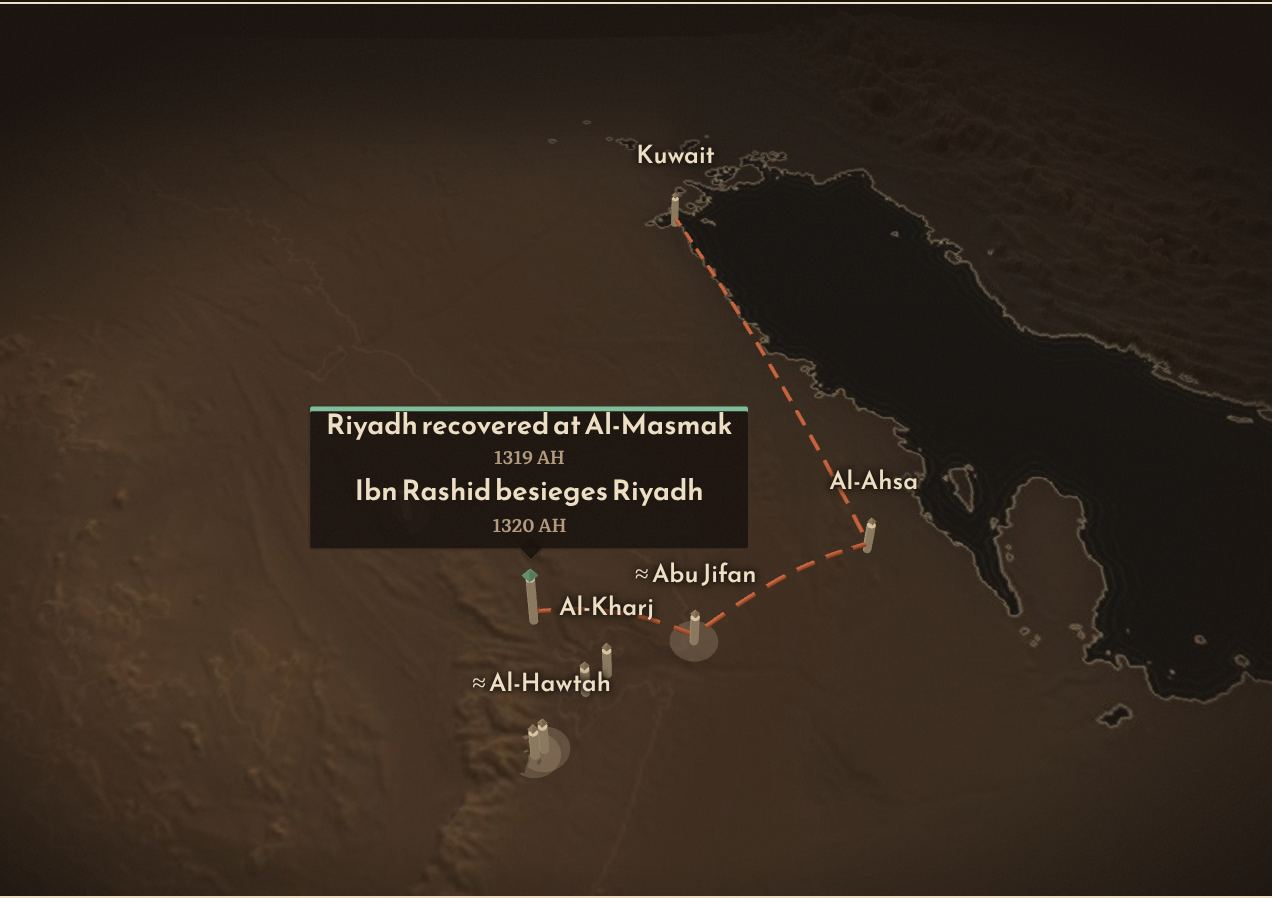
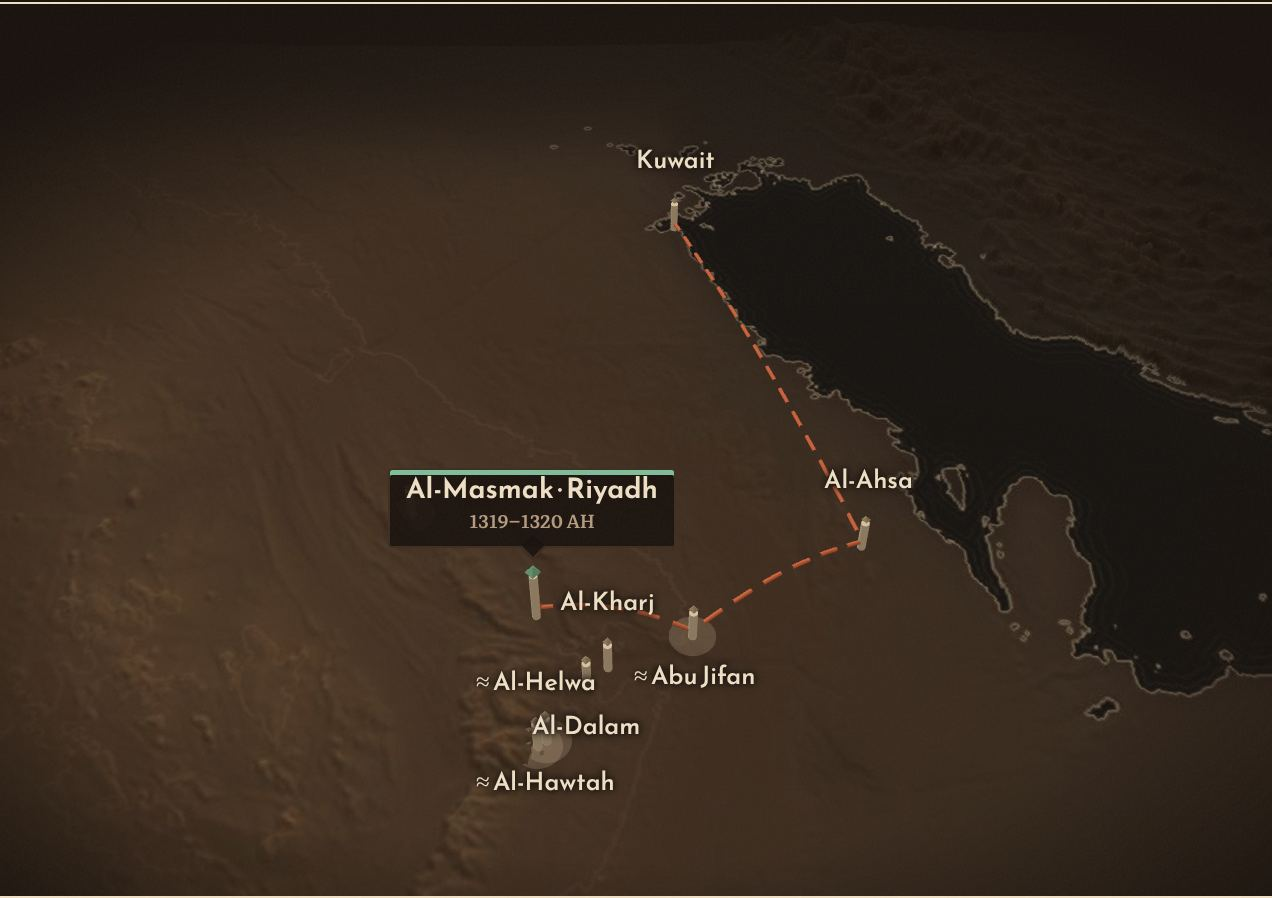
Add maps to every chapter and an overview map on the timeline
- Chapter maps for all 14 chapters, with a legend of events under each map
- Overview map with the six regions and a year slider (timeline page, last chapter)
- Smarter label placement, grouping of nearby events, auto-fit camera
- Map data in the page carries only what is drawn (no fact codes or notes)
- Still images for every map, light and dark, EN and AR
- check_chapters.py skips include lines; check_maps.py skips overview entries

Claude-Session: https://claude.ai/code/session_01T9hE6utXzHFuebtgZkjXcb

diff --git a/assets/map.js b/assets/map.js
@@ -77,6 +77,15 @@ async function build(fig) {
   const data = JSON.parse(fig.querySelector('.map-data').textContent);
   const lang = data.lang === 'ar' ? 'ar' : 'en';
   const T = TEXT[lang];
+  const places = data.places;
+  // marker size and relief height follow the size of the area the chapter covers:
+  // close views get flatter relief, so the coarse elevation data does not look spiky
+  const m = data.map || {};
+  const ids = [...(m.events || []).map(e => e.place), ...(m.places || []).map(q => q.id), ...(m.routes || []).flatMap(r => r.path)];
+  const ll = ids.map(id => places[id]).filter(Boolean);
+  const extent = ll.length ? Math.max(...ll.map(p => p.lat)) - Math.min(...ll.map(p => p.lat)) + Math.max(...ll.map(p => p.lon)) - Math.min(...ll.map(p => p.lon)) : 12;
+  const S = Math.min(3, Math.max(0.9, extent / 4));
+  const RELIEF = Math.min(1, Math.max(0.35, extent / 8));
   const stage = fig.querySelector('.map-stage');
   const THREE = await import(BASE + 'three/three.module.min.js');
   const { OrbitControls } = await import(BASE + 'three/OrbitControls.js');
@@ -106,7 +115,7 @@ async function build(fig) {
   geo.rotateX(-Math.PI / 2);
   geo.translate((x0 + x1) / 2, 0, (z0 + z1) / 2);
   const pos = geo.attributes.position;
-  for (let i = 0; i < pos.count; i++) pos.setY(i, field.at(i % field.w, Math.floor(i / field.w)));
+  for (let i = 0; i < pos.count; i++) pos.setY(i, field.at(i % field.w, Math.floor(i / field.w)) * RELIEF);
   geo.computeVertexNormals();
 
   const loader = new THREE.TextureLoader();
@@ -116,8 +125,7 @@ async function build(fig) {
   scene.add(new THREE.Mesh(geo, terrainMat));
 
   // ---------- markers ----------
-  const places = data.places;
-  const groundAt = (lat, lon) => Math.max(0, field.sample(lat, lon));
+  const groundAt = (lat, lon) => Math.max(0, field.sample(lat, lon) * RELIEF);
   const markers = [];   // { obj, top: Vector3, el, priority }
   const mats = [];      // [material, cssVar] so colours follow the theme
   const mat = v => { const m = new THREE.MeshStandardMaterial({ color: cssColour(v), roughness: .6 }); mats.push([m, v]); return m; };
@@ -126,11 +134,6 @@ async function build(fig) {
   const discGeo = new THREE.CircleGeometry(0.75, 40).rotateX(-Math.PI / 2);
 
   // marker size follows the size of the area the chapter covers
-  const m = data.map || {};
-  const ids = [...(m.events || []).map(e => e.place), ...(m.places || []).map(q => q.id), ...(m.routes || []).flatMap(r => r.path)];
-  const ll = ids.map(id => places[id]).filter(Boolean);
-  const extent = ll.length ? Math.max(...ll.map(p => p.lat)) - Math.min(...ll.map(p => p.lat)) + Math.max(...ll.map(p => p.lon)) - Math.min(...ll.map(p => p.lon)) : 1;
-  const S = Math.min(3, Math.max(0.7, extent / 4));
 
   function addMarker(p, opts) {
     const [x, z] = toXZ(p.lat, p.lon);
@@ -183,7 +186,9 @@ async function build(fig) {
   }
   for (const g of groups) {
     addMarker(g.p, { event: true, kind: g.events[0].kind, colour: KIND_COLOUR[g.events[0].kind] || '--ink',
-                     lines: g.events.map(e => ({ label: e[lang], year: e.year })) });
+                     // the pin shows the place and year; the full captions are in the legend under the map
+                     lines: [{ label: [...new Set(g.events.map(e => places[e.place][lang]))].join(' · '),
+                               year: [...new Set(g.events.map(e => e.year).filter(Boolean))].join('–') }] });
   }
   // a place a few km from an event marker (Al-Shuqaib, Al-Swaidi next to Al-Masmak) is left to the
   // caption below the map, so the pins don't pile up
@@ -238,19 +243,87 @@ async function build(fig) {
     routes.push({ pieces });
   }
 
+  // ---------- regions (overview maps): soft glows that light up year by year ----------
+  const regions = [];
+  let years = [], yearIdx = 0, userMoved = false;
+  if (m.overview && data.regions) {
+    const c = document.createElement('canvas');
+    c.width = c.height = 128;
+    const g2 = c.getContext('2d');
+    const grad = g2.createRadialGradient(64, 64, 0, 64, 64, 64);
+    grad.addColorStop(0, 'rgba(255,255,255,0.85)');
+    grad.addColorStop(0.55, 'rgba(255,255,255,0.45)');
+    grad.addColorStop(1, 'rgba(255,255,255,0)');
+    g2.fillStyle = grad;
+    g2.fillRect(0, 0, 128, 128);
+    const glow = new THREE.CanvasTexture(c);
+    for (const r of data.regions) {
+      const [x, z] = toXZ(r.centre[0], r.centre[1]);
+      const size = r.radius_km / 111 * K * 2;
+      const rm = new THREE.MeshBasicMaterial({ map: glow, color: cssColour('--adobe'), transparent: true, opacity: 0, depthTest: false, depthWrite: false });
+      mats.push([rm, '--adobe']);
+      const disc = new THREE.Mesh(new THREE.PlaneGeometry(size, size).rotateX(-Math.PI / 2), rm);
+      disc.position.set(x, 4, z);
+      disc.renderOrder = 2;
+      scene.add(disc);
+      const holder = new THREE.Group();
+      holder.position.set(x, 0, z);
+      const el = document.createElement('div');
+      el.className = 'map-label is-event kind-region';
+      const t = document.createElement('span'); t.className = 'ml-t'; t.textContent = r[lang];
+      const yr = document.createElement('span'); yr.className = 'ml-y'; yr.textContent = T.year(r.year);
+      el.append(t, yr);
+      overlay.appendChild(el);
+      const region = { rm, year: r.year, on: false };
+      regions.push(region);
+      markers.push({ obj: holder, top: new THREE.Vector3(x, groundAt(r.centre[0], r.centre[1]) + 2, z), el, priority: 3, born: 0, region });
+    }
+    years = [...new Set(data.regions.map(r => r.year))].sort();
+    yearIdx = reduceMotion ? years.length - 1 : 0;
+    const bar = document.createElement('div');
+    bar.className = 'map-years';
+    bar.innerHTML = '<input type="range" min="0" step="1"><output></output>';
+    const range = bar.querySelector('input'), out = bar.querySelector('output');
+    range.max = years.length - 1;
+    range.setAttribute('aria-label', lang === 'ar' ? 'السنة' : 'Year');
+    const show = () => { range.value = yearIdx; out.textContent = T.year(years[yearIdx]); for (const r of regions) r.on = r.year <= years[yearIdx]; };
+    range.addEventListener('input', () => { userMoved = true; yearIdx = +range.value; show(); });
+    fig.insertBefore(bar, fig.querySelector('figcaption'));
+    show();
+    regions.show = show;
+  }
+
   // ---------- camera: overview, then glide to the chapter ----------
   const focusPts = markers.map(k => k.obj.position);
   if (!focusPts.length) { const [rx, rz] = toXZ(24.7, 46.7); focusPts.push(new THREE.Vector3(rx, 0, rz)); }
   const box = new THREE.Box3().setFromPoints(focusPts);
   const centre = box.getCenter(new THREE.Vector3());
   const size = box.getSize(new THREE.Vector3());
-  const span = Math.max(size.x, size.z, 9);
+  const span = Math.max(size.x, size.z, 22);
   const dir = new THREE.Vector3(0, 1.15, 1).normalize();
   const endTarget = centre.clone();
-  const endPos = centre.clone().add(dir.clone().multiplyScalar(span * 2.1 + 8));
+  const endPos = centre.clone().add(dir.clone().multiplyScalar(span * (m.overview ? 2.5 : 1.0) + 4));
   const startTarget = new THREE.Vector3((x0 + x1) / 2, 0, (z0 + z1) / 2 + 10);
   const startPos = startTarget.clone().add(new THREE.Vector3(0, 1.6, 1).normalize().multiplyScalar(330));
 
+  // back the camera off until every pin (and room for its label above) fits in the frame
+  function fit() {
+    const pv = new THREE.Vector3();
+    for (let i = 0; i < 40; i++) {
+      camera.position.copy(endPos);
+      camera.lookAt(endTarget);
+      camera.updateMatrixWorld();
+      const inside = markers.every(k => {
+        pv.copy(k.top).project(camera);
+        return Math.abs(pv.x) < 0.8 && pv.y > -0.8 && pv.y < 0.6;
+      });
+      if (inside) return;
+      endPos.sub(endTarget).multiplyScalar(1.1).add(endTarget);
+    }
+  }
+  camera.aspect = stage.clientWidth / stage.clientHeight;
+  camera.updateProjectionMatrix();
+  fit();
   const dist = endPos.distanceTo(endTarget);
   scene.fog.near = dist * 1.1; scene.fog.far = dist * 3.2;
 
@@ -312,14 +385,24 @@ async function build(fig) {
       v.copy(k.top).project(camera);
       const x = (v.x + 1) / 2 * w, y = (1 - v.y) / 2 * h;
       const visible = v.z < 1 && x > -40 && x < w + 40 && y > 0 && y < h;
-      let ok = visible && reveal >= k.born;
+      let ok = visible && reveal >= k.born && (!k.region || k.region.on);
+      let pos = 'above', lx = x - (k.w || 0) / 2, ly = y - (k.h || 0);
       if (ok) {
-        const r = k.el.getBoundingClientRect();
-        const box = { l: x - r.width / 2, r: x + r.width / 2, t: y - r.height, b: y };
-        ok = !shown.some(s => box.l < s.r && box.r > s.l && box.t < s.b && box.b > s.t);
-        if (ok) shown.push(box);
+        // try above the pin, then below, right and left; hide the label only if all four collide
+        if (!k.w) { k.w = k.el.offsetWidth; k.h = k.el.offsetHeight; }
+        const { w: bw, h: bh } = k;
+        const tries = [['above', x - bw / 2, y - bh - 8], ['below', x - bw / 2, y + 30], ['right', x + 14, y - bh / 2 + 10], ['left', x - bw - 14, y - bh / 2 + 10]];
+        ok = false;
+        for (const [name, tx, ty] of tries) {
+          const box = { l: tx - 3, r: tx + bw + 3, t: ty - 3, b: ty + bh + 3 };
+          if (box.l < 0 || box.r > w || box.t < 0 || box.b > h) continue;
+          if (!shown.some(s => box.l < s.r && box.r > s.l && box.t < s.b && box.b > s.t)) {
+            shown.push(box); ok = true; pos = name; lx = tx; ly = ty; break;
+          }
+        }
       }
-      k.el.style.transform = `translate(${x}px, ${y}px) translate(-50%, -100%)`;
+      k.el.style.transform = `translate(${Math.round(lx)}px, ${Math.round(ly)}px)`;
+      k.el.dataset.pos = pos;
       k.el.classList.toggle('is-on', ok);
     }
   }
@@ -350,6 +433,11 @@ async function build(fig) {
       const p = Math.min(1, Math.max(0, (after - markers.length * 140 - i * 900) / 1400));
       for (const piece of r.pieces) piece.tube.visible = piece.at <= p;
     });
+    // overview: step through the years once after the glide, unless the visitor takes the slider
+    if (regions.length) {
+      if (!userMoved && intro.done && yearIdx < years.length - 1 && elapsed > intro.dur + 600 + yearIdx * 1100) { yearIdx++; regions.show(); }
+      for (const r of regions) r.rm.opacity += ((r.on ? 0.55 : 0) - r.rm.opacity) * 0.08;
+    }
     controls.update();
     renderer.render(scene, camera);
     placeLabels(reveal);

diff --git a/_includes/chapter-map.html b/_includes/chapter-map.html
@@ -15,12 +15,20 @@
     </picture>
   </div>
   <figcaption>
+    {%- if m.events %}
+    <ol class="map-legend">
+      {%- for e in m.events %}
+      <li class="kind-{{ e.kind }}">{% if e.year != "" %}<span class="lg-y">{{ e.year }}{% if lang == "ar" %}هـ{% else %} AH{% endif %}</span>{% endif %}<span class="lg-t">{{ e[lang] }}</span></li>
+      {%- endfor %}
+    </ol>
+    {%- endif %}
     <span class="map-note">{% if lang == "ar" %}الخطوط المتقطعة وعلامة ≈ تعني مسارًا أو موقعًا تقريبيًا.{% else %}Dashed lines and ≈ mark approximate routes and positions.{% endif %}</span>
     <span class="visually-hidden">{% if lang == "ar" %}على الخريطة: {% else %}On the map: {% endif %}
-      {%- for e in m.events %}{% assign p = site.data.places[e.place] %}{{ e[lang] }}{% if e.year != "" %} ({{ e.year }}{% if lang == "ar" %}هـ{% else %} AH{% endif %}){% endif %}{% if lang == "ar" %}، {% else %}; {% endif %}{% endfor %}
+      {%- if m.overview %}{% for r in site.data.regions %}{{ r[lang] }} ({{ r.year }}{% if lang == "ar" %}هـ{% else %} AH{% endif %}){% unless forloop.last %}{% if lang == "ar" %}، {% else %}; {% endif %}{% endunless %}{% endfor %}{% endif %}
       {%- for i in m.places %}{% assign p = site.data.places[i.id] %}{{ p[lang] }}{% unless forloop.last %}{% if lang == "ar" %}، {% else %}, {% endif %}{% endunless %}{% endfor %}.</span>
   </figcaption>
-  <script type="application/json" class="map-data">{"lang": {{ lang | jsonify }}, "map": {{ m | jsonify }}, "places": {{ site.data.places | jsonify }}}</script>
+  {%- comment -%} Only what the map draws: fact codes, sources and notes stay out of the page. {%- endcomment %}
+  <script type="application/json" class="map-data">{"lang": {{ lang | jsonify }}, "map": {"overview": {% if m.overview %}true{% else %}false{% endif %}, "places": [{% for i in m.places %}{"id": {{ i.id | jsonify }}}{% unless forloop.last %},{% endunless %}{% endfor %}], "events": [{% for e in m.events %}{"kind": {{ e.kind | jsonify }}, "place": {{ e.place | jsonify }}, "year": {{ e.year | jsonify }}, "en": {{ e.en | jsonify }}, "ar": {{ e.ar | jsonify }}}{% unless forloop.last %},{% endunless %}{% endfor %}], "routes": [{% for r in m.routes %}{"path": {{ r.path | jsonify }}, "approximate": {% if r.approximate %}true{% else %}false{% endif %}}{% unless forloop.last %},{% endunless %}{% endfor %}]}, "places": { {%- for kv in site.data.places %}{% assign p = kv[1] %}{{ kv[0] | jsonify }}: {"en": {{ p.en | jsonify }}, "ar": {{ p.ar | jsonify }}, "lat": {{ p.lat }}, "lon": {{ p.lon }}, "approximate": {% if p.approximate %}true{% else %}false{% endif %}}{% unless forloop.last %},{% endunless %}{% endfor -%} }{% if m.overview %}, "regions": [{% for r in site.data.regions %}{"id": {{ r.id | jsonify }}, "en": {{ r.en | jsonify }}, "ar": {{ r.ar | jsonify }}, "year": {{ r.year | jsonify }}, "centre": {{ r.centre | jsonify }}, "radius_km": {{ r.radius_km }}}{% unless forloop.last %},{% endunless %}{% endfor %}]{% endif %}}</script>
 </figure>
 <script type="module" src="{{ '/assets/map.js' | relative_url }}"></script>
 {%- endif -%}

diff --git a/assets/style.css b/assets/style.css
@@ -236,7 +236,7 @@ html[dir="rtl"] .pager small { letter-spacing: 0; font-size: .95rem; }
 .chapter-map.is-live .map-fallback { display: none; }
 .map-labels { position: absolute; inset: 0; pointer-events: none; overflow: hidden; }
 .map-label {
-  position: absolute; left: 0; top: 0; margin-top: -8px;
+  position: absolute; left: 0; top: 0;
   display: flex; flex-direction: column; align-items: center; line-height: 1.2; white-space: nowrap;
   font-family: var(--f-label); font-size: .82rem; color: var(--ink);
   background: color-mix(in srgb, var(--sand) 90%, transparent);
@@ -248,6 +248,7 @@ html[dir="rtl"] .pager small { letter-spacing: 0; font-size: .95rem; }
   background: inherit; border: inherit; border-width: 0 1px 1px 0; transform: rotate(45deg);
 }
 .map-label.is-on { opacity: 1; }
+.map-label:not([data-pos="above"])::after { display: none; }
 .map-label:not(.is-event) { /* plain place names: text with a halo, no box */
   background: none; border: 0; padding: 0 2px; font-size: .78rem; font-weight: 500;
   text-shadow: 0 0 3px var(--sand), 0 0 3px var(--sand), 0 0 6px var(--sand);
@@ -264,6 +265,10 @@ html[dir="rtl"] .pager small { letter-spacing: 0; font-size: .95rem; }
   .map-label.is-event { font-size: .74rem; }
   .ml-y { font-size: .74rem; }
 }
+.map-label.kind-region { box-shadow: inset 0 2.5px 0 var(--adobe); }
+.map-years { display: flex; align-items: center; gap: 14px; margin-top: 12px; }
+.map-years input { flex: 1; accent-color: var(--adobe); }
+.map-years output { font-family: var(--f-label); font-size: 1rem; min-width: 6.5em; color: var(--adobe); }
 .map-ui { position: absolute; bottom: 10px; inset-inline-end: 10px; }
 .map-reset {
   font-family: var(--f-label); font-size: .8rem; color: var(--ink); cursor: pointer;
@@ -271,6 +276,13 @@ html[dir="rtl"] .pager small { letter-spacing: 0; font-size: .95rem; }
   box-shadow: 3px 3px 0 var(--clay);
 }
 .map-reset:hover { box-shadow: 4px 4px 0 var(--adobe); }
+.map-legend { list-style: none; margin: 4px 0 10px; padding: 0; display: grid; grid-template-columns: repeat(auto-fill, minmax(260px, 1fr)); gap: 4px 24px; }
+.map-legend li { display: flex; align-items: baseline; gap: 10px; color: var(--ink); font-size: 1.02rem; line-height: 1.35; }
+.map-legend li::before { content: ""; flex: none; width: 9px; height: 9px; transform: rotate(45deg) translateY(-1px); background: var(--ink); }
+.map-legend .kind-battle::before { background: var(--adobe); }
+.map-legend .kind-siege::before { background: var(--gold); }
+.map-legend .kind-taken::before, .map-legend .kind-surrender::before, .map-legend .kind-settlement::before { background: var(--palm); }
+.lg-y { flex: none; font-family: var(--f-label); font-size: .85rem; color: var(--ink-soft); min-width: 5.2em; }
 .chapter-map figcaption { margin-top: 8px; font-size: .95rem; color: var(--ink-soft); line-height: 1.5; }
 .visually-hidden { position: absolute !important; width: 1px; height: 1px; overflow: hidden; clip: rect(0 0 0 0); white-space: nowrap; }
 

diff --git a/research/maps/make_fallbacks.js b/research/maps/make_fallbacks.js
@@ -1,7 +1,7 @@
 // Make the still images shown when a visitor's browser cannot draw the 3D maps.
 // Build the site and serve it first, e.g.
 //   bundle exec jekyll serve      (serves on http://localhost:4000)
-//   node research/maps/make_fallbacks.js http://localhost:4000 riyadh
+//   node research/maps/make_fallbacks.js http://localhost:4000 riyadh qassim timeline
 // Writes assets/maps/fallback/<ref>-<lang>.jpg and <ref>-<lang>-dark.jpg.
 const { chromium } = require('playwright');
 const fs = require('fs');
@@ -18,14 +18,16 @@ const path = require('path');
         const ctx = await browser.newContext({ viewport: { width: 700, height: 900 }, deviceScaleFactor: 2, colorScheme: scheme, reducedMotion: 'reduce' });
         const page = await ctx.newPage();
         const file = fs.readdirSync(path.join(__dirname, `../../${lang}/chapters`)).find(f => f.endsWith(`-${ref}.md`));
-        await page.goto(`${base}/${lang}/chapters/${file.replace(/\.md$/, '.html')}`, { waitUntil: 'networkidle' });
+        const url = file ? `${base}/${lang}/chapters/${file.replace(/\.md$/, '.html')}` : `${base}/${lang}/${ref}.html`;
+        await page.goto(url, { waitUntil: 'networkidle' });
         const stage = await page.$('.map-stage');
         await stage.scrollIntoViewIfNeeded();
         await page.waitForSelector('.chapter-map.is-live', { timeout: 60000 });
         await page.waitForTimeout(4000);
         await page.addStyleTag({ content: '.map-ui { display: none !important; }' });
         const name = `${ref}-${lang}${scheme === 'dark' ? '-dark' : ''}.jpg`;
-        await stage.screenshot({ path: path.join(out, name), type: 'jpeg', quality: 78 });
+        // a clip rather than an element shot: the live canvas never counts as "stable"
+        await page.screenshot({ path: path.join(out, name), type: 'jpeg', quality: 78, clip: await stage.boundingBox(), timeout: 120000 });
         console.log('wrote', name);
         await ctx.close();
       }

diff --git a/research/check_chapters.py b/research/check_chapters.py
@@ -24,7 +24,7 @@ for page in pages:
     body = page.read_text(encoding="utf-8").split("---", 2)[2]
     for para in re.split(r"\n\s*\n", body):
         text = para.strip()
-        if not text or text.startswith("#") or text.startswith("|---") or text.startswith("| Year") or text.startswith("| السنة"):
+        if not text or text.startswith("{% include") or text.startswith("#") or text.startswith("|---") or text.startswith("| Year") or text.startswith("| السنة"):
             continue
         rows = text.splitlines() if text.startswith("|") else [text]
         for row in rows:

diff --git a/research/check_maps.py b/research/check_maps.py
@@ -68,6 +68,8 @@ for pid, p in places.items():
         problems.append(f"places.yml {pid}: position outside the Arabian Peninsula")
 
 for ref, m in maps.items():
+    if m.get("overview") and set(m) == {"overview"}:
+        continue  # overview maps show regions.yml only, checked below
     if ref not in cited_en or ref not in cited_ar:
         problems.append(f"maps.yml: '{ref}' is not a chapter ref")
         continue

diff --git a/ar/timeline.md b/ar/timeline.md
@@ -9,6 +9,8 @@ title: "الخط الزمني"
 
 التواريخ بالتقويم الهجري كما تذكرها المصادر، ويُضاف التاريخ الميلادي حيث يذكره المصدر. {% comment %}Each row is from facts.yml; ids in the comment at the end of the row.{% endcomment %}
 
+{% include chapter-map.html %}
+
 | السنة | الحدث |
 |---|---|
 | 850هـ (1446م) | استقرار مانع المريدي في المنطقة وتأسيس الدرعية {% comment %}F008{% endcomment %} |

diff --git a/en/timeline.md b/en/timeline.md
@@ -9,6 +9,8 @@ title: "Timeline"
 
 Dates are given in the Hijri calendar (AH), as the sources use it. A Gregorian date is added where the source gives one. {% comment %}Each row is from facts.yml; ids in the comment at the end of the row.{% endcomment %}
 
+{% include chapter-map.html %}
+
 | Year | Event |
 |---|---|
 | 850 AH (1446 AD) | Mani Al-Muraydi settles in the region; Diriyah is founded {% comment %}F008{% endcomment %} |
